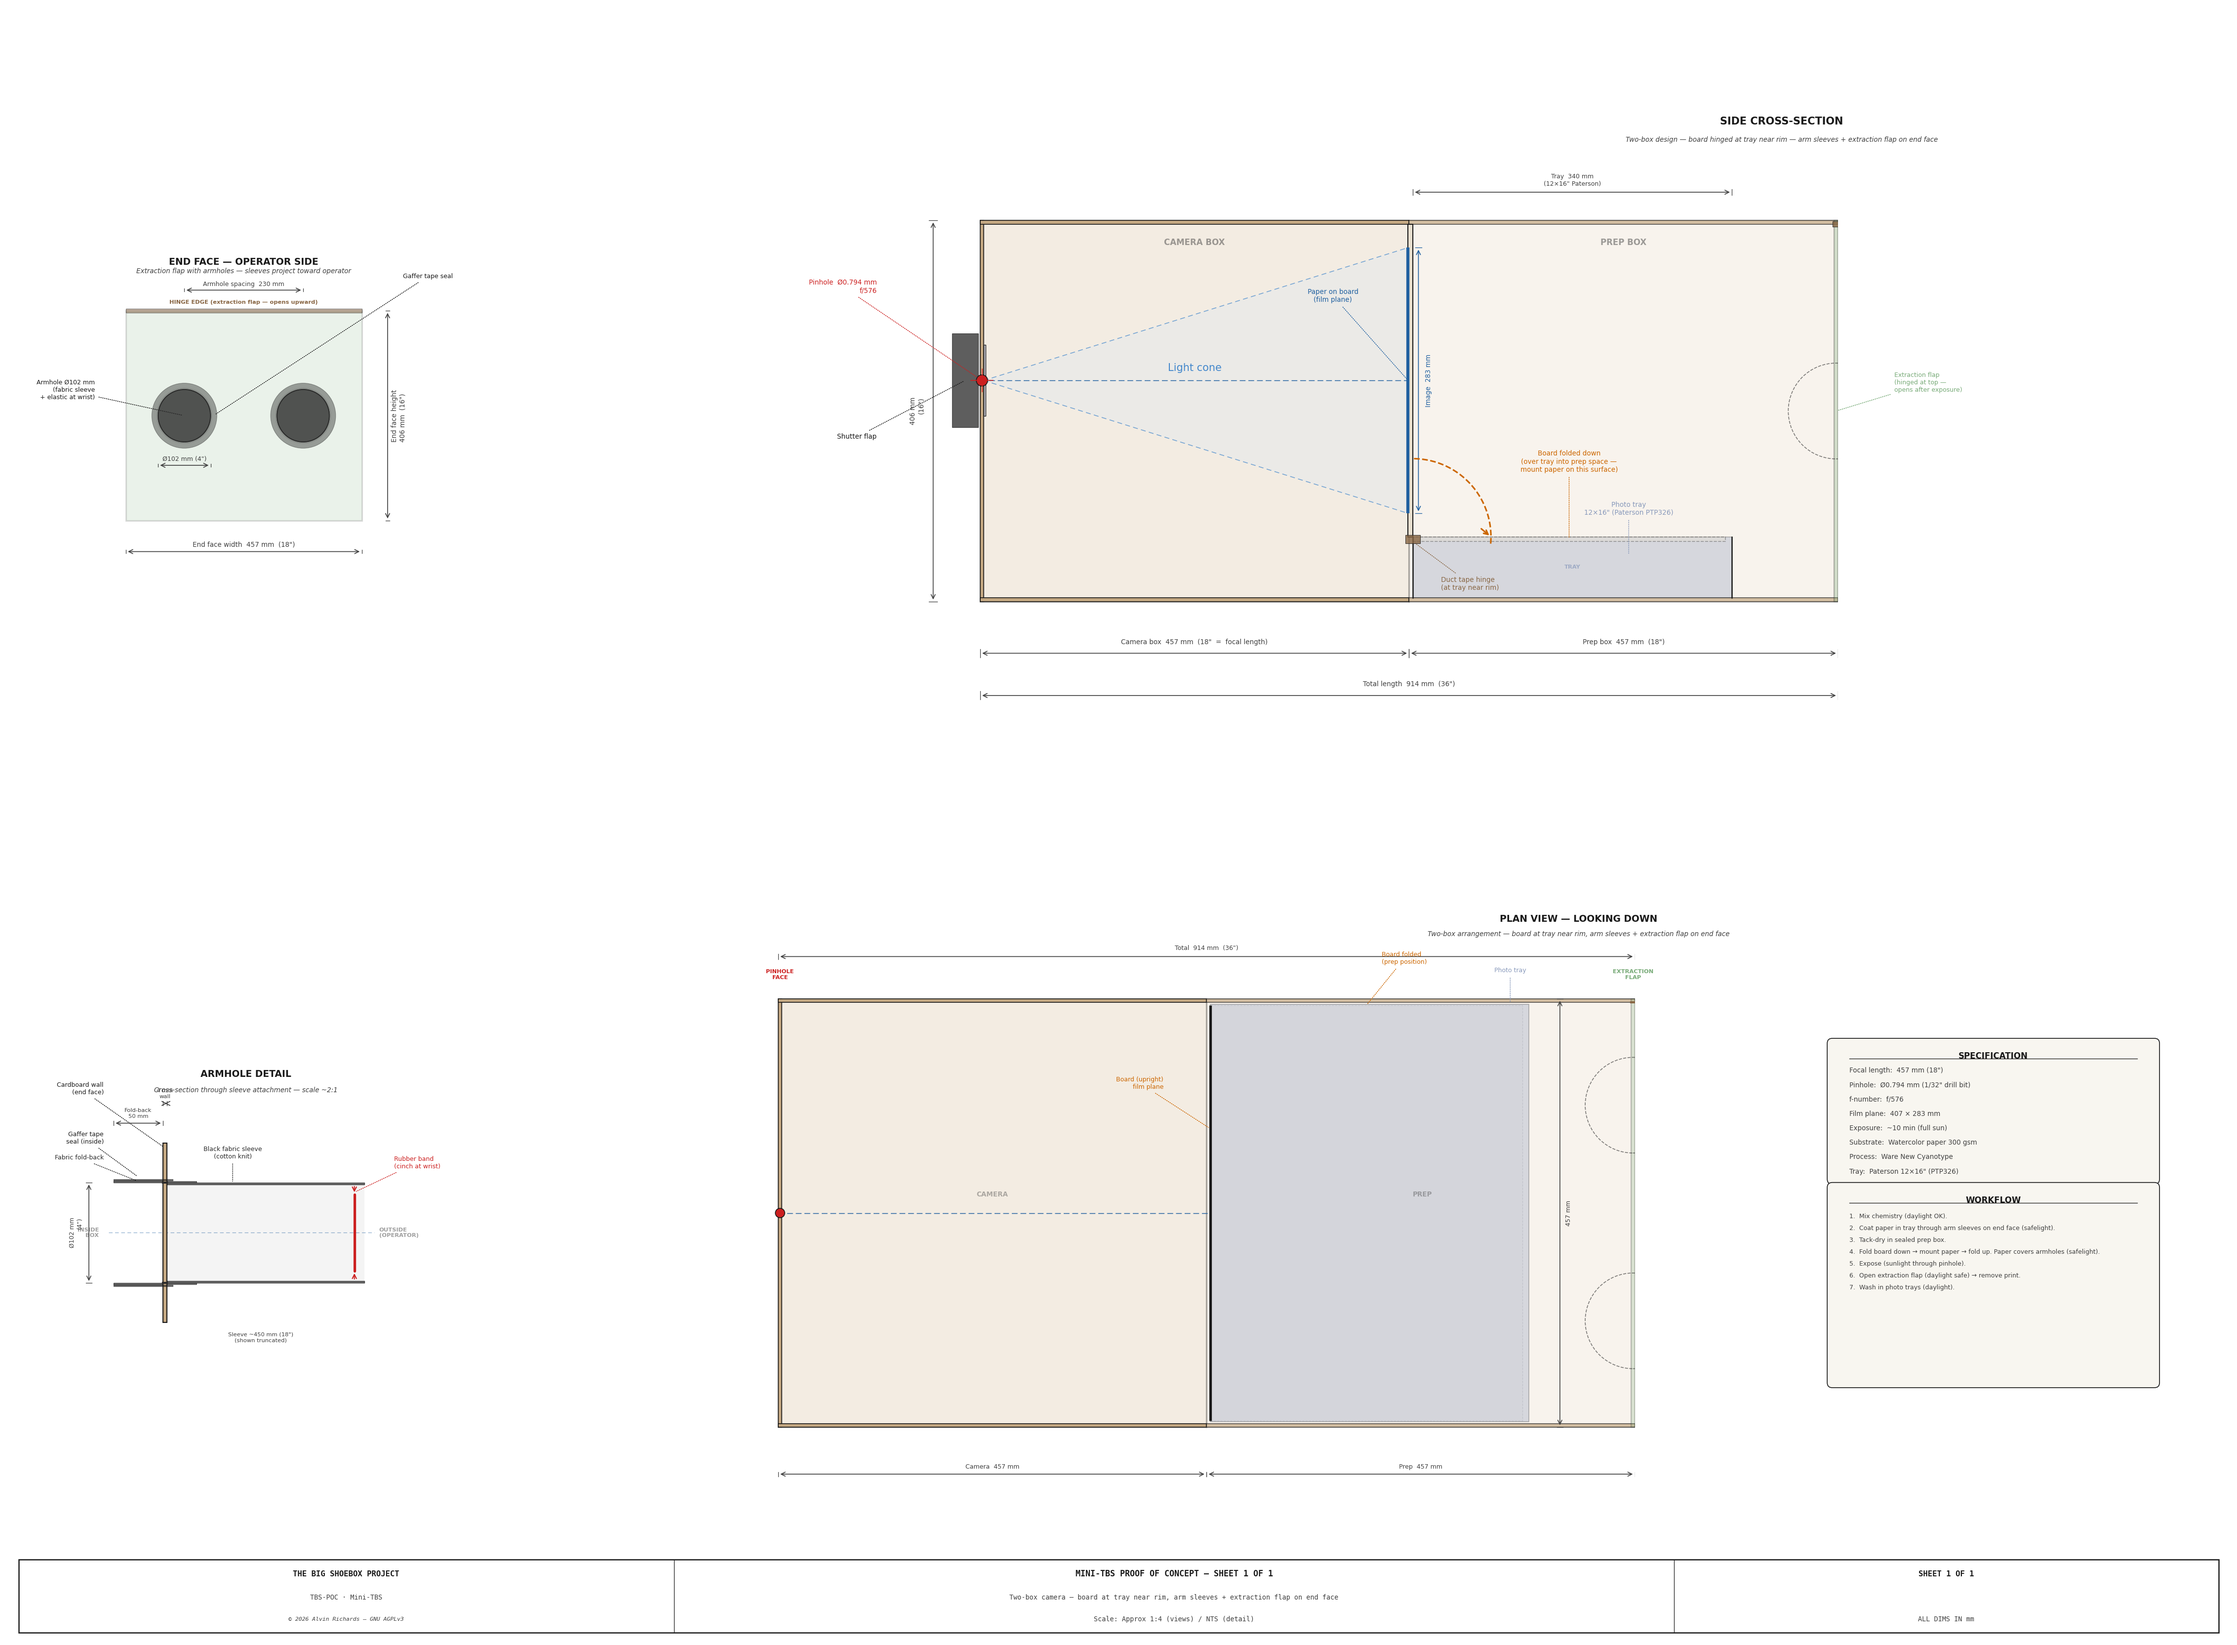
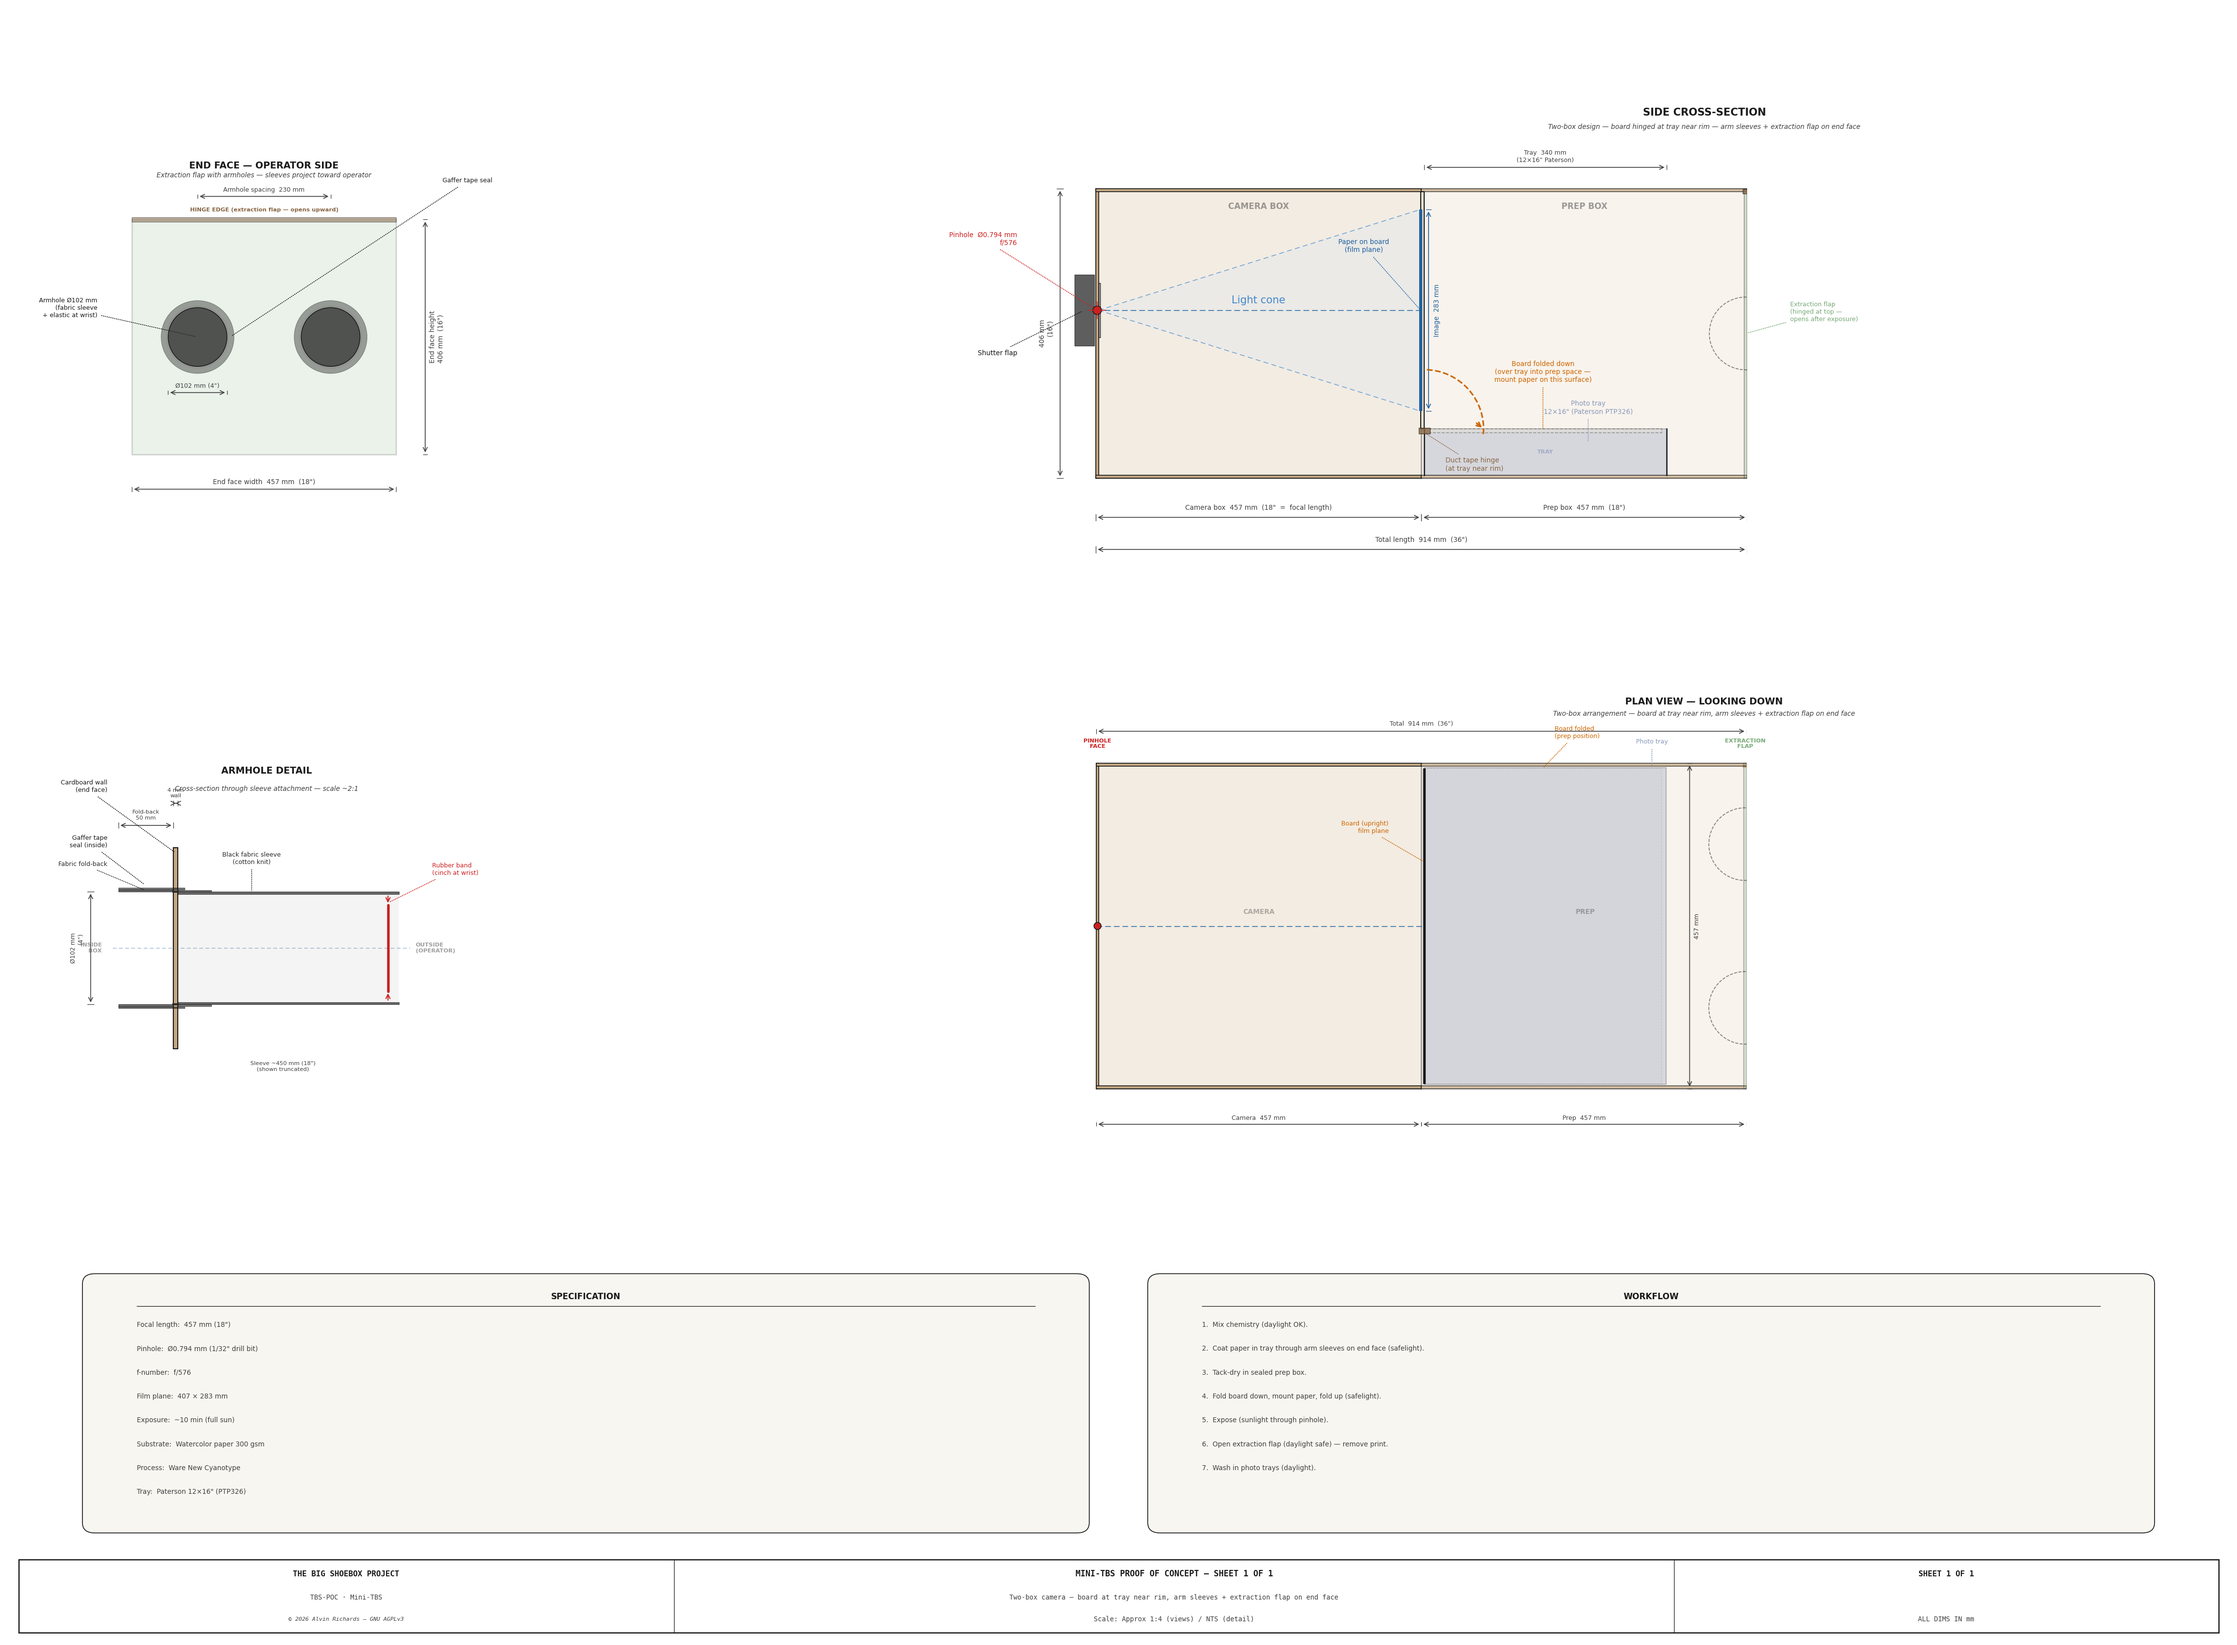
Align cross-section and plan view left edges
Cross-section and plan view now span the same grid columns (1-3) so
the camera box left edges align vertically. Specs and workflow moved
to a full-width bottom row in side-by-side layout.

diff --git a/generate_mini_tbs_diagram.py b/generate_mini_tbs_diagram.py
@@ -122,17 +122,17 @@ FIG_H = 22.0
 fig = plt.figure(figsize=(FIG_W, FIG_H), dpi=150)
 fig.patch.set_facecolor(BG)
 
-gs = fig.add_gridspec(2, 5,
-                      height_ratios=[1.0, 1],
-                      width_ratios=[0.7, 0.8, 0.8, 0.55, 0.65],
+gs = fig.add_gridspec(3, 4,
+                      height_ratios=[1.0, 1.0, 0.55],
+                      width_ratios=[0.7, 1.0, 0.8, 0.65],
                       hspace=0.22, wspace=0.18,
                       left=0.03, right=0.97, bottom=0.06, top=0.95)
 
 ax_board = fig.add_subplot(gs[0, 0])    # end face — operator side (top-left)
-ax_xsec  = fig.add_subplot(gs[0, 1:])   # side cross-section (top, columns 1-4)
+ax_xsec  = fig.add_subplot(gs[0, 1:])   # side cross-section (top, columns 1-3)
 ax_armdt = fig.add_subplot(gs[1, 0])    # armhole detail cross-section
-ax_planv = fig.add_subplot(gs[1, 1:4])  # plan view (columns 1-3, aligned with xsec)
-ax_asm   = fig.add_subplot(gs[1, 4])    # assembly notes + spec table
+ax_planv = fig.add_subplot(gs[1, 1:])   # plan view (columns 1-3, same span as xsec)
+ax_asm   = fig.add_subplot(gs[2, :])    # spec + workflow — full-width bottom row
 
 
 # ══════════════════════════════════════════════════════════════════════════════
@@ -677,23 +677,22 @@ ax.text((TOTAL_D + board_fold_end) / 2, BOX_W + 65,
 
 
 # ══════════════════════════════════════════════════════════════════════════════
-# BOTTOM-RIGHT: Assembly notes + specification
+# BOTTOM ROW: Specification (left) + Workflow (right) — full width
 # ══════════════════════════════════════════════════════════════════════════════
 ax = ax_asm
 ax.set_facecolor(BG)
-ax.set_aspect("equal")
 ax.axis("off")
-ax.set_xlim(0, 400)
-ax.set_ylim(0, 420)
+ax.set_xlim(0, 1000)
+ax.set_ylim(0, 160)
 
-# ── Specification table ─────────────────────────────────────────────────────
-ax.add_patch(mpatches.FancyBboxPatch((10, 250), 380, 160,
+# ── Specification table (left half) ─────────────────────────────────────────
+ax.add_patch(mpatches.FancyBboxPatch((10, 10), 470, 140,
              boxstyle="round,pad=6", facecolor="#F8F6F0", edgecolor=C_OUT,
              linewidth=0.8, zorder=1))
 
-ax.text(200, 400, "SPECIFICATION", ha="center", va="top",
+ax.text(245, 145, "SPECIFICATION", ha="center", va="top",
         fontsize=FS_MD, fontweight="bold", color=C_OUT)
-ax.plot([30, 370], [392, 392], color=C_OUT, lw=0.6)
+ax.plot([30, 460], [137, 137], color=C_OUT, lw=0.6)
 
 specs = [
     f"Focal length:  {FOCAL} mm (18\")",
@@ -705,36 +704,36 @@ specs = [
     "Process:  Ware New Cyanotype",
     f"Tray:  Paterson 12×16\" (PTP326)",
 ]
-y = 382
+y = 128
 for line in specs:
     ax.text(30, y, line, ha="left", va="top",
             fontsize=FS_SM, color=C_DIM)
-    y -= 17
+    y -= 14
 
-# ── Assembly notes ──────────────────────────────────────────────────────────
-ax.add_patch(mpatches.FancyBboxPatch((10, 10), 380, 230,
+# ── Workflow (right half) ──────────────────────────────────────────────────
+ax.add_patch(mpatches.FancyBboxPatch((520, 10), 470, 140,
              boxstyle="round,pad=6", facecolor="#F8F6F0", edgecolor=C_OUT,
              linewidth=0.8, zorder=1))
 
-ax.text(200, 230, "WORKFLOW", ha="center", va="top",
+ax.text(755, 145, "WORKFLOW", ha="center", va="top",
         fontsize=FS_MD, fontweight="bold", color=C_OUT)
-ax.plot([30, 370], [222, 222], color=C_OUT, lw=0.6)
+ax.plot([540, 970], [137, 137], color=C_OUT, lw=0.6)
 
 steps = [
     "1.  Mix chemistry (daylight OK).",
     "2.  Coat paper in tray through arm sleeves on end face (safelight).",
     "3.  Tack-dry in sealed prep box.",
-    "4.  Fold board down → mount paper → fold up. Paper covers armholes (safelight).",
+    "4.  Fold board down, mount paper, fold up (safelight).",
     "5.  Expose (sunlight through pinhole).",
-    "6.  Open extraction flap (daylight safe) → remove print.",
+    "6.  Open extraction flap (daylight safe) — remove print.",
     "7.  Wash in photo trays (daylight).",
 ]
 
-y = 210
+y = 128
 for step in steps:
-    ax.text(30, y, step, ha="left", va="top",
-            fontsize=FS_SM - 0.5, color=C_DIM, linespacing=1.2)
-    y -=14
+    ax.text(540, y, step, ha="left", va="top",
+            fontsize=FS_SM, color=C_DIM, linespacing=1.2)
+    y -= 14
 
 
 # ── Title block (full-figure overlay) ────────────────────────────────────────
